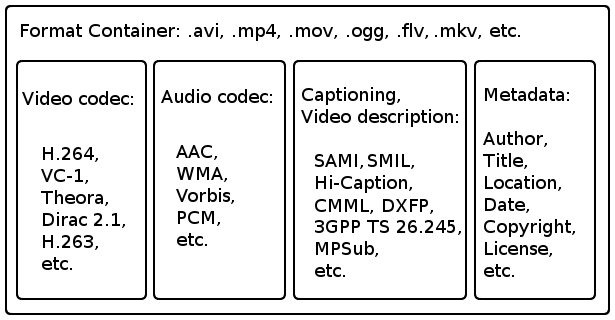
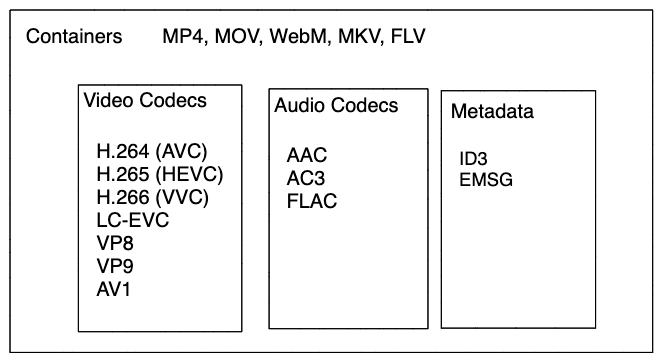
Normalize some images to use excalidraw for a common look.

Changed region(s): [[0.0, 0.0, 1.0, 1.0]]

diff --git a/README.md b/README.md
@@ -1,17 +1,19 @@
 # Video Concepts Overview
 
-- [Video Terms](#video-terms)
-- [Video File Format Breakdown](#video-file-format-breakdown)
-- [Video Streaming Options](#video-streaming-options)
-  - [Progressive](#progressive)
-  - [RTMP Streaming](#rtmp-streaming)
-  - [HTTP Adaptive Bitrate Streaming](#http-adaptive-bitrate-streaming)
-- [MPEG Transport Stream deep-dive](#mpeg-transport-stream-deep-dive)
-- [HLS Specifics](#hls-specifics)
-  - [Compatibility](#compatibility)
-- [Extra Streaming Concepts](#extra-streaming-concepts)
-- [Related Tech](#related-tech)
-- [References](#references)
+- [Video Concepts Overview](#video-concepts-overview)
+  - [Video Terms](#video-terms)
+  - [Video File Format Breakdown](#video-file-format-breakdown)
+  - [Video Streaming Options](#video-streaming-options)
+    - [Progressive](#progressive)
+    - [RTMP Streaming](#rtmp-streaming)
+    - [HTTP Adaptive Bitrate Streaming](#http-adaptive-bitrate-streaming)
+  - [MPEG Transport Stream deep-dive](#mpeg-transport-stream-deep-dive)
+  - [HLS Specifics](#hls-specifics)
+    - [Compatibility](#compatibility)
+  - [Extra Streaming Concepts](#extra-streaming-concepts)
+  - [Digital Rights Management (DRM)](#digital-rights-management-drm)
+  - [Related Tech / Broadcasting Terminology](#related-tech--broadcasting-terminology)
+  - [References](#references)
 
 Below you will see `media content` used as a short-hand for this document to mean audio, video, and/or metadata tracks of data, representing what would be normally called... a video.
 
@@ -33,11 +35,11 @@ Below you will see `media content` used as a short-hand for this document to mea
 
 Container - define a structured file format for containing video, audio, and metadata tracks for media.
 
-The most popular container formats we work with are part of MPEG-2, and MPEG-4 standards.
+The most popular container formats we work with are part of MPEG-2, and ISOBMFF standards.
 * MPEG-2 Transport Streams (.ts)
-* MPEG-4 Part 14 (.mp4)
+* ISO Base Media File Format (.mp4)
 
-![](./images/containers.png)
+![What do containers wrap?](./images/containers.png)
 
 ---
 
@@ -65,6 +67,8 @@ Notable exception to this rule: HQ Trivia used RTMP to stream their media.
 
 ### HTTP Adaptive Bitrate Streaming
 
+![Manifests for ABR streaming](./images/manifests.png)
+
 * Encodes source video to multiple different bitrates referred to as renditions
 * Each rendition is segmented into small video 'segments' which range in duration based on requirements, but are generally between 6-10 seconds in duration.
 * Standards: HLS, MPEG-DASH, MS Smooth Streaming...
@@ -78,7 +82,12 @@ Pros:
 Cons:
 * Compatibility/Support
 
-[Example ABS player (HLS, DASH, MSS) with bitrate graphs/stats](http://orange-opensource.github.io/hasplayer.js/1.11.0/samples/Dash-IF/index.html)
+Example playback engines that support these styles of content are below.
+
+[Shaka Player Demo](https://shaka-player-demo.appspot.com/demo/)
+[HLS.js Demo](https://hls-js.netlify.app/demo/)
+[DASH.js Demo](https://reference.dashif.org/dash.js/v4.3.0/samples/dash-if-reference-player/index.html)
+[Video.js Plugin](https://github.com/videojs/http-streaming)
 
 ---
 
